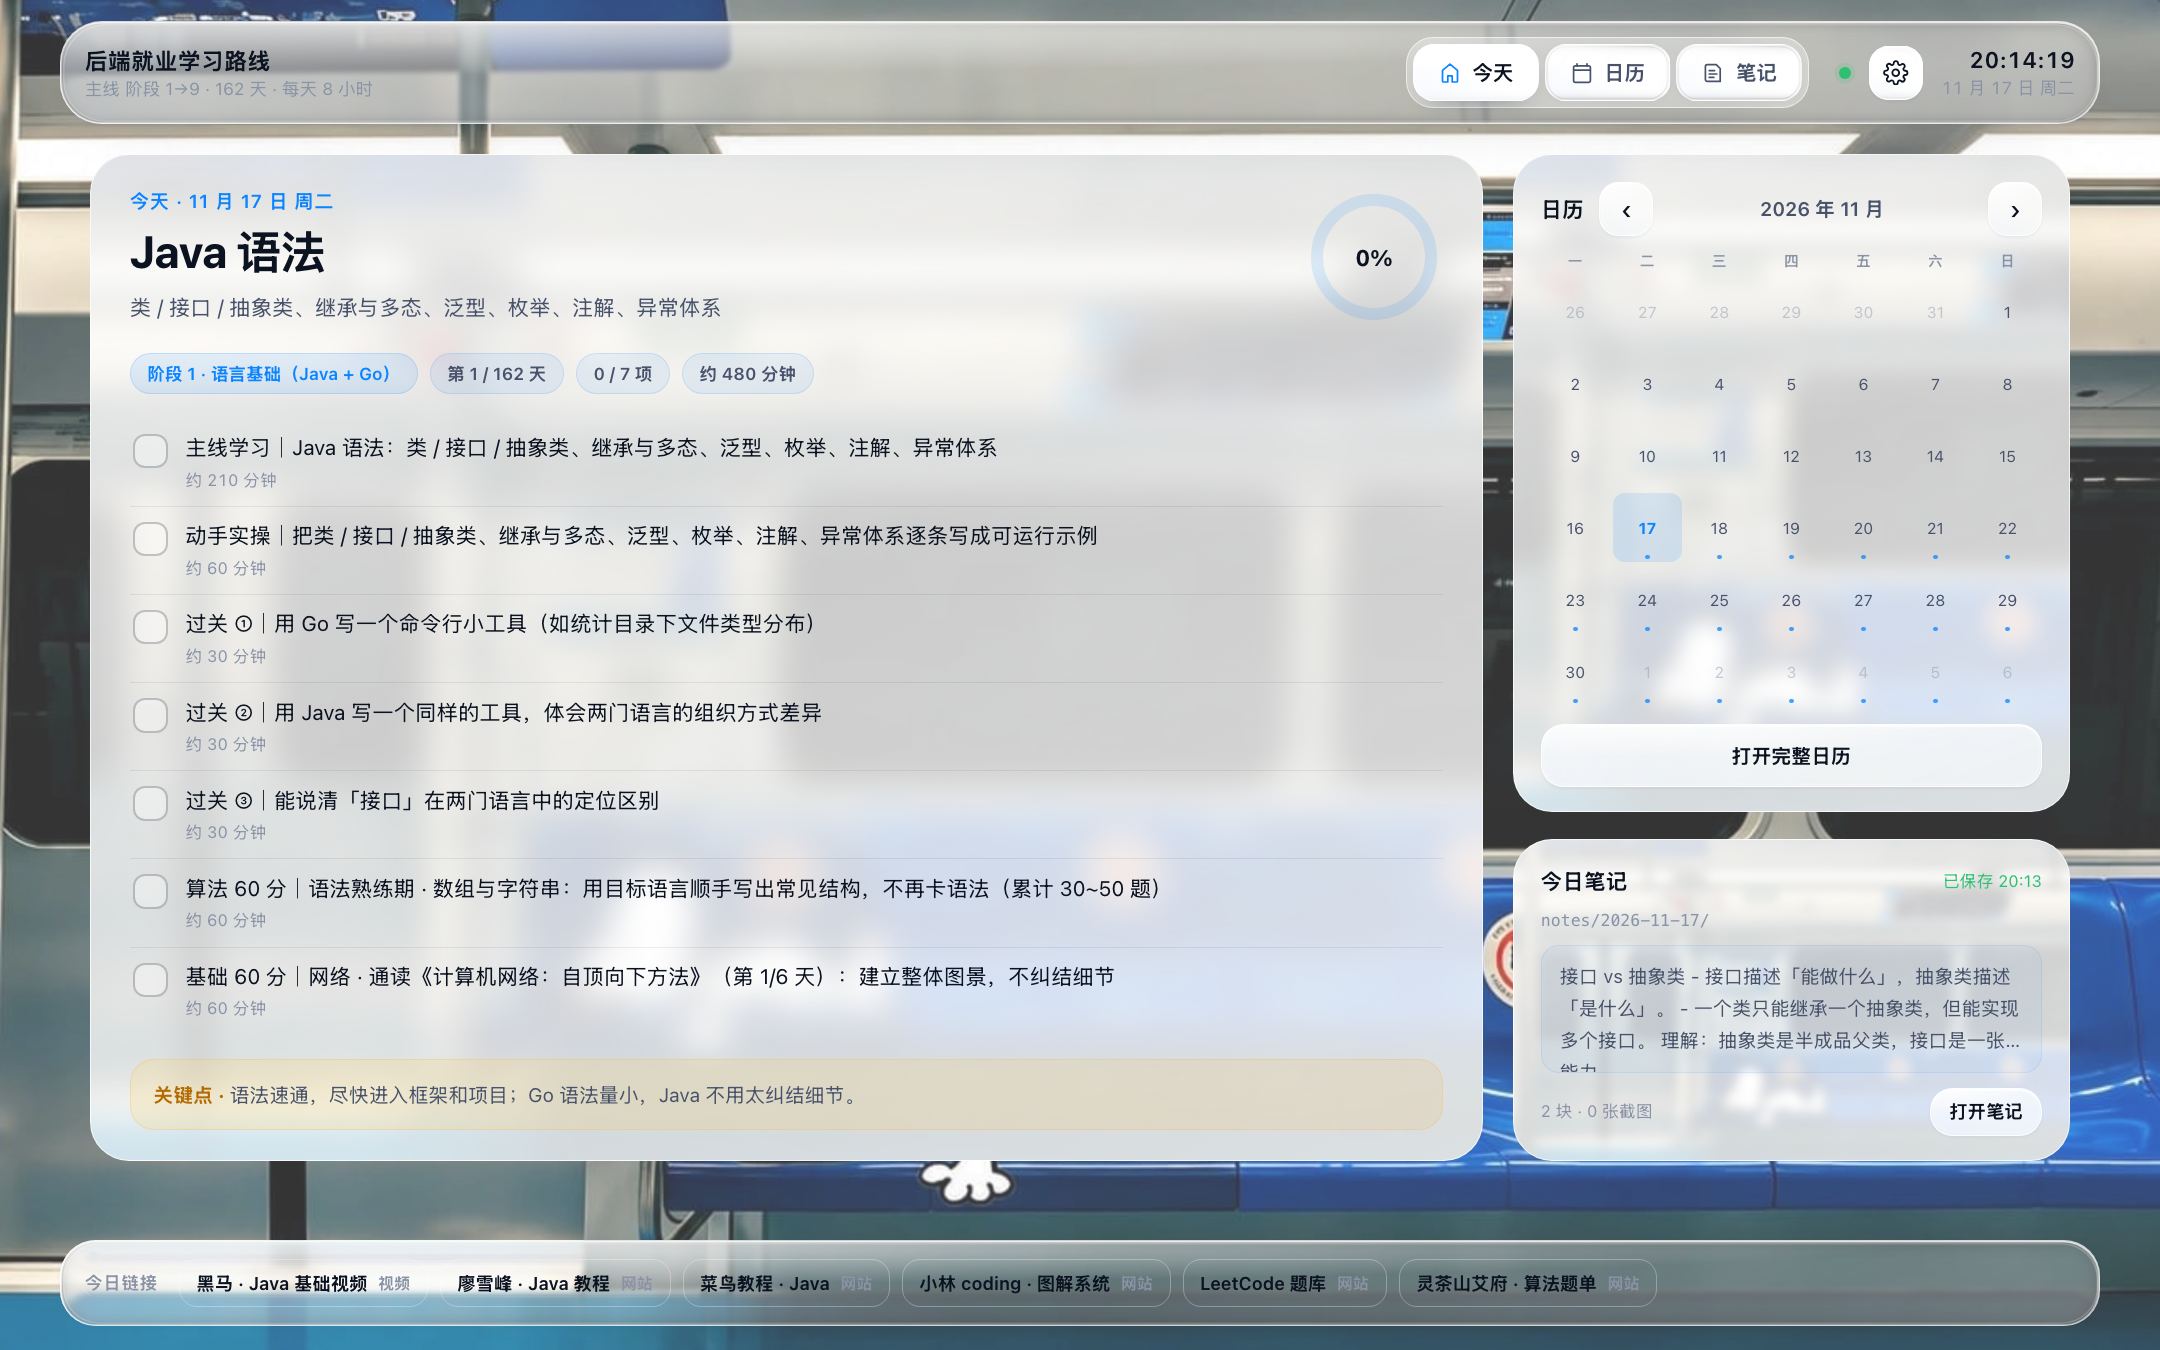
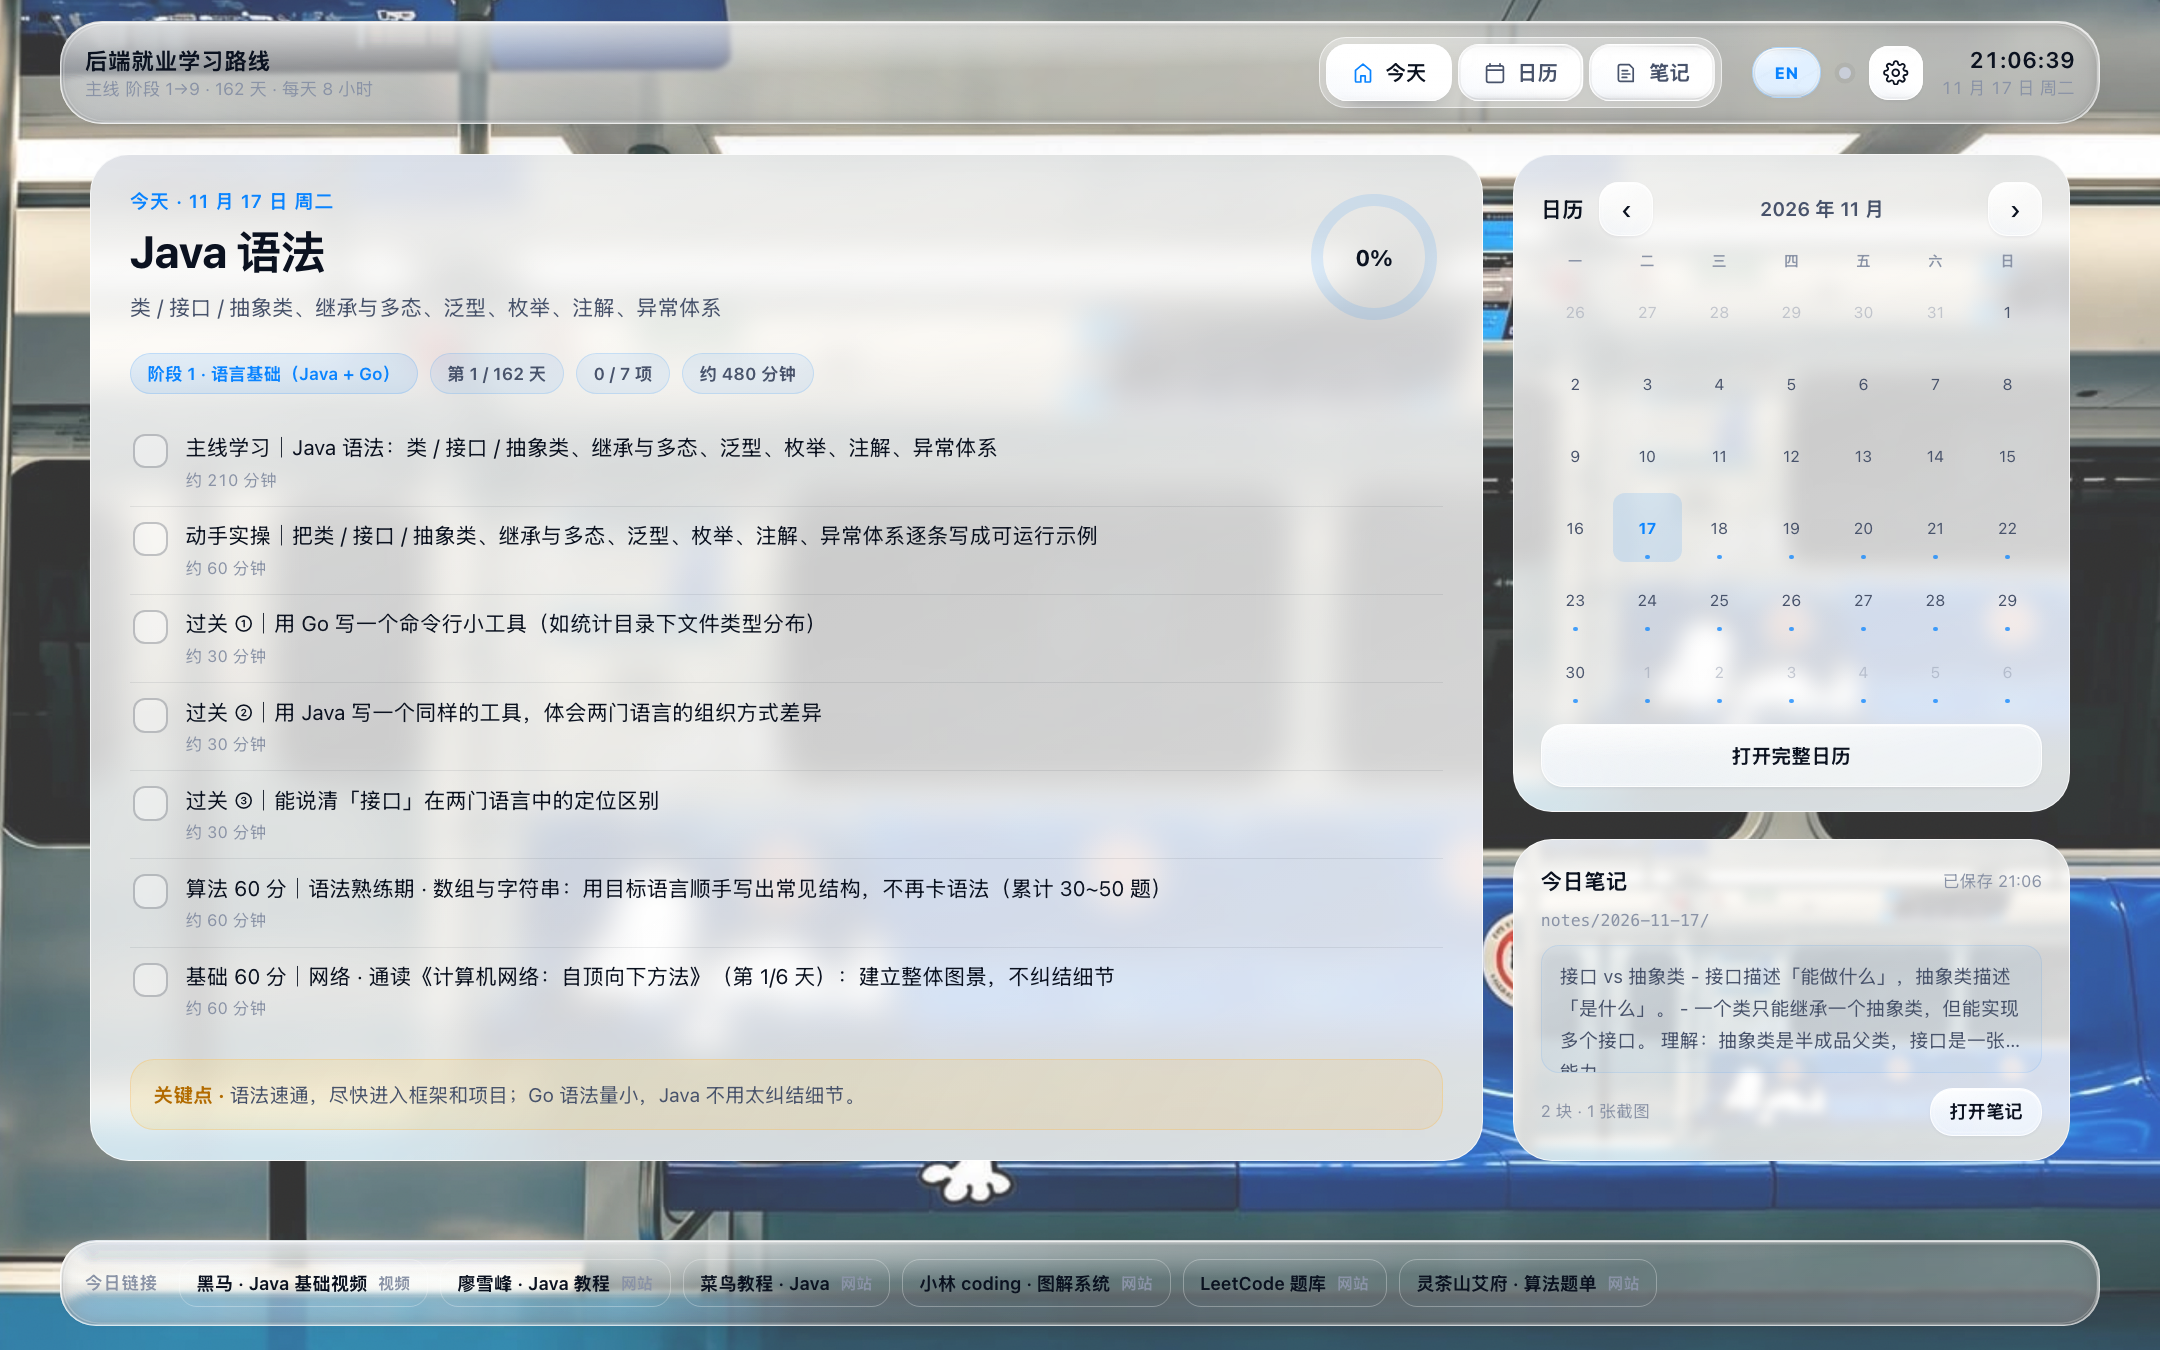
更新界面预览：语言切换与最新笔记页

Changed region(s): [[0.5894, 0.0311, 0.8685, 0.0933], [0.9306, 0.0311, 0.9616, 0.0622], [0.7444, 0.8089, 0.7755, 0.84]]

diff --git a/style.css b/style.css
@@ -636,7 +636,8 @@ body[data-view="notes"] .dock{display:none}
 
 /* ---------------- 语言切换 ---------------- */
 .lang-btn{height:34px;min-width:46px;padding:0 11px;border-radius:999px;font:inherit;font-size:11px;font-weight:800;
-  letter-spacing:.03em;color:var(--ink-2);display:inline-grid;place-items:center;white-space:nowrap}
-.lang-btn:hover{color:var(--ink);transform:translateY(-1px)}
+  letter-spacing:.03em;color:var(--accent);background:rgba(10,132,255,.12);border-color:rgba(10,132,255,.24);
+  display:inline-grid;place-items:center;white-space:nowrap}
+.lang-btn:hover{color:#fff;background:var(--accent);transform:translateY(-1px)}
 @media (max-width:640px){.lang-btn{min-width:40px;padding:0 8px;font-size:10.5px}}
 html[lang="en"] .tip::before{content:"Key point · "}
